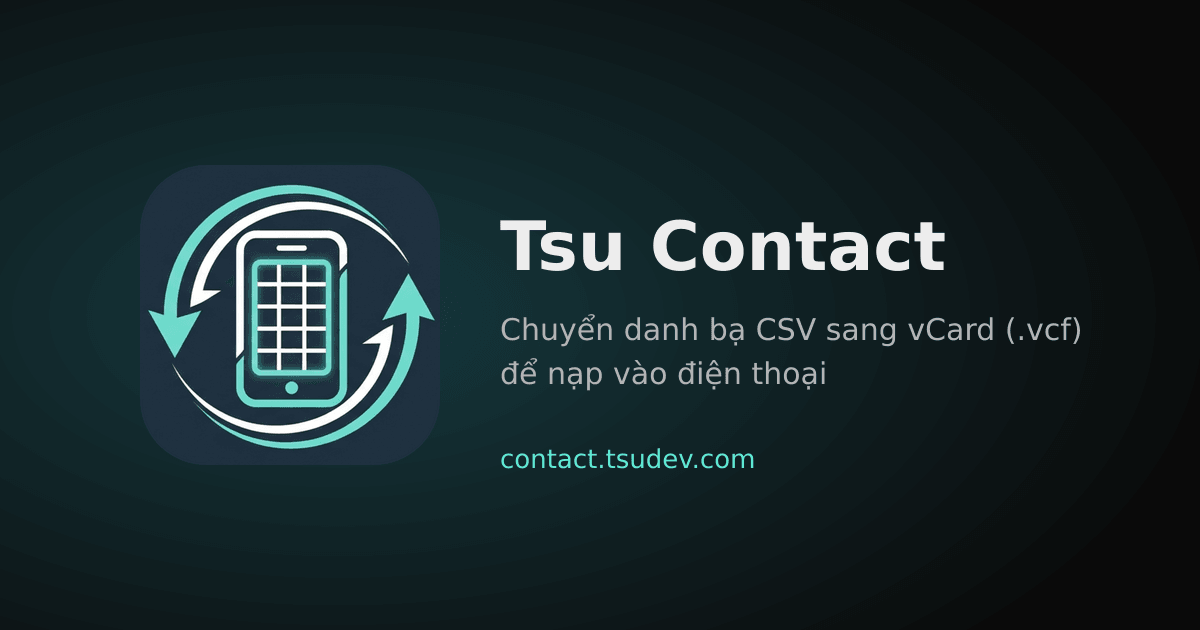
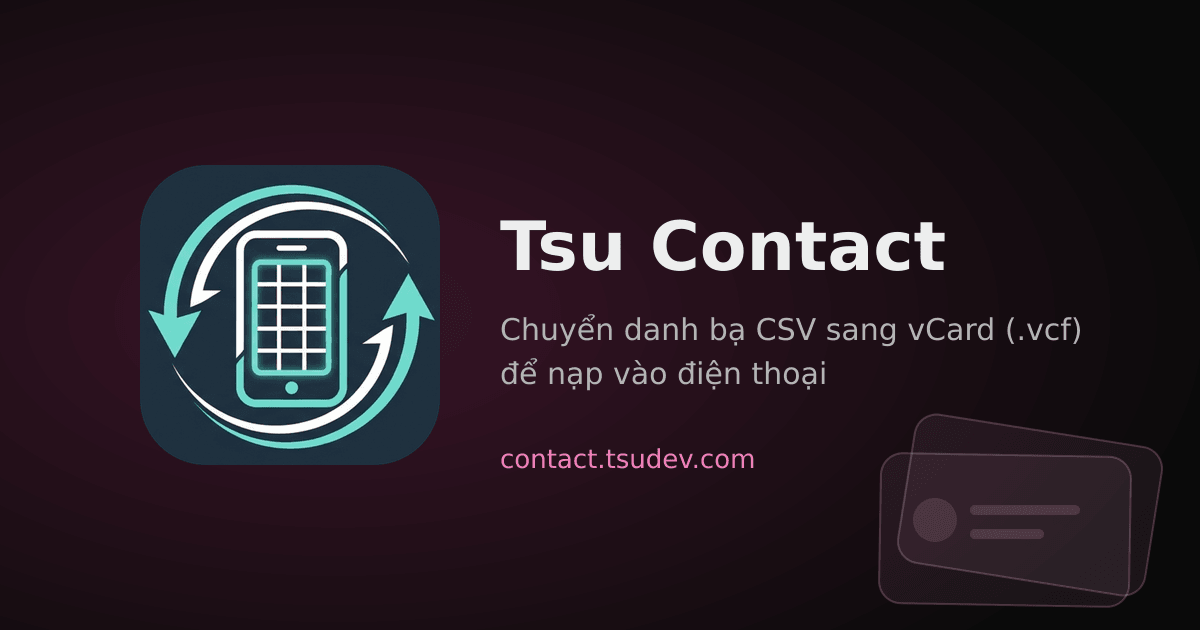
feat(ui): bố cục cong-cu + hoạ tiết the-xep (#40)
- Trang chủ: vùng thao tác chính ngay màn đầu, căn giữa (luồng CSV → vCard, nút tải .exe kèm dung lượng,
  lệnh cài Scoop có nút Chép); ảnh ứng dụng, các bước, tính năng xếp dưới.
- Hoạ tiết the-xep tĩnh ở hero (SVG nội tuyến, --accent/--glow, ẩn ở màn hẹp) và og-image (màu lấy từ
  .standards/tokens/products/contact.json).
- App: màn đầu là trang Bắt đầu với vùng kéo thả lớn căn giữa (nút Chọn tệp là nút chính); nạp tệp xong mới
  sang bố cục 3 bước. Chuỗi vi/en, test chuyển màn.
- Ảnh chụp trước/sau Sáng + Tối ở docs/anh-chup/20261121-std50/.

Changed region(s): [[0.0, 0.2111, 0.6475, 0.7841], [0.7092, 0.6333, 0.9558, 0.9651]]

diff --git a/website/src/styles/site.css b/website/src/styles/site.css
@@ -83,6 +83,35 @@ pre {
 
 /* Trang chủ: hero canh giữa */
 .mo-dau { padding: 5rem 0 3rem; text-align: center; }
+/* Bố cục chữ ký `cong-cu` (DESIGN_SYSTEM 1.2.2): vùng thao tác chính ngay màn đầu, căn giữa */
+.mo-dau--cong-cu { position: relative; overflow: hidden; isolation: isolate; padding-bottom: 2rem; }
+.mo-dau--cong-cu .mo-dau__luoi { gap: 1.75rem; }
+.mo-dau--cong-cu .mo-dau__phu { margin-bottom: 0; }
+.thao-tac {
+  width: 100%; max-width: 40rem; display: grid; gap: 1.1rem; justify-items: center;
+  background: var(--bg-surface); border: 1px solid var(--border-strong); border-radius: var(--radius-lg);
+  padding: 1.75rem clamp(1rem, 4vw, 2.25rem); box-shadow: 0 0 0 6px var(--glow);
+}
+.thao-tac__luong { display: flex; flex-wrap: wrap; justify-content: center; gap: 0.4rem; list-style: none; padding: 0; margin: 0; }
+.thao-tac__luong li {
+  display: inline-flex; align-items: center; gap: 0.4rem; padding: 0.3rem 0.8rem; border-radius: var(--radius-control);
+  background: var(--bg-subtle); border: 1px solid var(--border); color: var(--text-secondary); font-size: 0.86rem; font-weight: 500;
+}
+.thao-tac__luong li + li::before { content: '→'; color: var(--text-link); margin-left: -0.15rem; }
+.thao-tac__luong li:last-child { color: var(--text-link); border-color: color-mix(in srgb, var(--primary) 45%, transparent); }
+.nut--lon { min-height: 3.25rem; padding: 0.8rem 2rem; font-size: 1.06rem; font-weight: 600; }
+.nut__phu { font-weight: 500; opacity: 0.85; font-size: 0.9rem; }
+.thao-tac__lenh { width: 100%; display: grid; gap: 0.4rem; text-align: left; }
+.thao-tac__lenh p { margin: 0; color: var(--text-muted); font-size: 0.86rem; text-align: center; }
+.thao-tac__ghi-chu { margin: 0; color: var(--text-muted); font-size: 0.88rem; }
+.muc--anh { padding-top: 1rem; }
+.muc--anh .minh-hoa { margin: 0 auto; }
+/* Hoạ tiết `the-xep`: thẻ xếp chồng lệch, tĩnh, nét --accent mờ + nền --glow; tổng độ phủ <= 15% */
+.hoa-tiet { position: absolute; inset: 0; width: 100%; height: 100%; z-index: -1; pointer-events: none; }
+.hoa-tiet rect { fill: var(--glow); stroke: var(--accent); stroke-opacity: 0.18; stroke-width: 1.25; }
+.hoa-tiet circle { fill: var(--accent); fill-opacity: 0.1; }
+.hoa-tiet path { stroke: var(--accent); stroke-opacity: 0.14; stroke-width: 8; stroke-linecap: round; fill: none; }
+@media (max-width: 860px) { .hoa-tiet { display: none; } }   /* màn hẹp: thẻ thao tác chiếm hết bề ngang, hoạ tiết sẽ đè chữ */
 .mo-dau__luoi { display: grid; gap: 3rem; justify-items: center; }
 .mo-dau h1 { font-size: clamp(2.1rem, 5vw, 3.4rem); line-height: 1.12; margin: 0 auto 1.1rem; letter-spacing: -0.025em; max-width: 46rem; }
 .chu-tim {

diff --git a/src/ui/main_window.py b/src/ui/main_window.py
@@ -23,6 +23,7 @@ from PySide6.QtWidgets import (
     QProgressBar,
     QScrollArea,
     QSizePolicy,
+    QStackedWidget,
     QToolButton,
     QVBoxLayout,
     QWidget,
@@ -46,6 +47,7 @@ from src.utils.resource_path import resourcePath
 
 REVALIDATE_DELAY_MS = 250
 LEFT_PANEL_WIDTH = 440
+START_WIDTH = 640   # bề rộng cột thao tác của màn đầu (bố cục cong-cu)
 
 
 class MainWindow(QMainWindow):
@@ -73,12 +75,18 @@ class MainWindow(QMainWindow):
         root.setSpacing(0)
         root.addWidget(self._buildHeader())
 
-        body = QHBoxLayout()
+        # Bố cục chữ ký `cong-cu` (tsudev-standards v5.0.0 DESIGN_SYSTEM 1.2.2): chưa có tệp thì màn đầu CHỈ là vùng
+        # thao tác chính (kéo thả / chọn tệp) căn giữa; nạp tệp xong mới sang bố cục làm việc 3 bước.
+        work = QWidget()
+        body = QHBoxLayout(work)
         body.setContentsMargins(t.space(5), t.space(5), t.space(5), t.space(5))
         body.setSpacing(t.space(5))
         body.addWidget(self._buildLeftPanel())
         body.addWidget(self._buildRightPanel(), 1)
-        root.addLayout(body, 1)
+        self.stack = QStackedWidget()
+        self.stack.addWidget(self._buildStartPage())
+        self.stack.addWidget(work)
+        root.addWidget(self.stack, 1)
         root.addWidget(self._buildStatusBar())
 
         self.toast = Toast(page, t)
@@ -99,7 +107,7 @@ class MainWindow(QMainWindow):
         self.retranslate()
         self.restyle()
         self._updateActions()
-        QTimer.singleShot(0, self.dropZone.browseButton.setFocus)
+        QTimer.singleShot(0, self.startZone.browseButton.setFocus)
 
     # ================================================================ dựng giao diện
     def _buildHeader(self) -> QWidget:
@@ -169,6 +177,62 @@ class MainWindow(QMainWindow):
         b.setCursor(Qt.CursorShape.PointingHandCursor)
         b.setIconSize(QSize(16, 16))
         return b
+
+    def _buildStartPage(self) -> QWidget:
+        t = self.tokens
+        page = QWidget()
+        page.setObjectName('startPage')
+        outer = QVBoxLayout(page)
+        outer.setContentsMargins(t.space(6), t.space(6), t.space(6), t.space(6))
+        outer.addStretch(1)
+        column = QVBoxLayout()
+        column.setSpacing(t.space(4))
+        self.startTitle = label('', 'startTitle', wrap=True)
+        self.startTitle.setAlignment(Qt.AlignmentFlag.AlignCenter)
+        self.startLead = label('', 'secondary', wrap=True)
+        self.startLead.setAlignment(Qt.AlignmentFlag.AlignCenter)
+        flow = QHBoxLayout()
+        flow.setSpacing(t.space(2))
+        flow.addStretch(1)
+        self.flowLabels = []
+        for i in range(4):
+            if i:
+                arrow = label('→', 'flowArrow')
+                flow.addWidget(arrow)
+            chip = label('', 'flowChip')
+            chip.setProperty('last', i == 3)
+            self.flowLabels.append(chip)
+            flow.addWidget(chip)
+        flow.addStretch(1)
+        self.startZone = DropZone(t, large=True)
+        self.startZone.fileDropped.connect(self.loadCsv)
+        self.startZone.browseRequested.connect(self.browseCsv)
+        privacyRow = QHBoxLayout()
+        privacyRow.setSpacing(t.space(2))
+        privacyRow.addStretch(1)
+        self.startPrivacyIcon = QLabel()
+        self.startPrivacyLabel = label('', 'muted')
+        privacyRow.addWidget(self.startPrivacyIcon)
+        privacyRow.addWidget(self.startPrivacyLabel)
+        privacyRow.addStretch(1)
+        column.addWidget(self.startTitle)
+        column.addWidget(self.startLead)
+        column.addSpacing(t.space(2))
+        column.addLayout(flow)
+        column.addSpacing(t.space(2))
+        column.addWidget(self.startZone)
+        column.addLayout(privacyRow)
+        row = QHBoxLayout()
+        row.addStretch(1)
+        holder = QWidget()
+        holder.setMaximumWidth(START_WIDTH)
+        holder.setMinimumWidth(START_WIDTH)
+        holder.setLayout(column)
+        row.addWidget(holder)
+        row.addStretch(1)
+        outer.addLayout(row)
+        outer.addStretch(2)
+        return page
 
     def _buildLeftPanel(self) -> QWidget:
         t = self.tokens
@@ -287,6 +351,12 @@ class MainWindow(QMainWindow):
         self.languageButton.setAccessibleName(tr('header.language'))
         self.languageActions['system'].setText(tr('language.system'))
         self.aboutButton.setText(tr('header.about'))
+        self.startTitle.setText(tr('start.title'))
+        self.startLead.setText(tr('start.lead'))
+        for i, chip in enumerate(self.flowLabels):
+            chip.setText(tr(f'start.flow{i + 1}'))
+        self.startZone.retranslate()
+        self.startPrivacyLabel.setText(tr('step1.privacy'))
         self.fileCard.setTitle(tr('step1.title'))
         self.dropZone.retranslate()
         self.changeFileButton.setText(tr('step1.change'))
@@ -316,6 +386,8 @@ class MainWindow(QMainWindow):
         self.exportButton.setIcon(icons.icon('download', t.color('on-primary')))
         self.reportButton.setIcon(icons.icon('report', t.color('text-primary')))
         self.dropZone.restyle(t)
+        self.startZone.restyle(t)
+        self.startPrivacyIcon.setPixmap(icons.pixmap('shield', t.color('success'), 16))
         self.preview.restyle(t)
         self.toast.restyle(t)
 
@@ -430,6 +502,7 @@ class MainWindow(QMainWindow):
 
     def _updateFileInfo(self) -> None:
         data = self.data
+        self.stack.setCurrentIndex(0 if data is None else 1)
         self.dropZone.setVisible(data is None)
         self.fileInfo.setVisible(data is not None)
         if data:
@@ -478,6 +551,7 @@ class MainWindow(QMainWindow):
         self.reportButton.setEnabled(not busy and bool(s and (s.warning or s.error)))
         self.changeFileButton.setEnabled(not busy)
         self.dropZone.setEnabled(not busy)
+        self.startZone.setEnabled(not busy)
 
     # ================================================================ xuất
     def _defaultPath(self, suffix: str, ext: str) -> str:

diff --git a/src/ui/widgets.py b/src/ui/widgets.py
@@ -60,22 +60,25 @@ class DropZone(QFrame):
     fileDropped = Signal(str)
     browseRequested = Signal()
 
-    def __init__(self, t: Tokens, parent=None):
+    def __init__(self, t: Tokens, parent=None, large: bool = False):
         super().__init__(parent)
         self.setObjectName('dropZone')
+        self.large = large   # vùng thao tác chính của màn đầu (bố cục cong-cu): to hơn, nút chọn tệp là nút chính
+        self.setProperty('large', large)
         self.setAcceptDrops(True)
         self.setProperty('dragActive', False)
         layout = QVBoxLayout(self)
-        layout.setContentsMargins(t.space(4), t.space(4), t.space(4), t.space(4))
-        layout.setSpacing(t.space(2))
+        pad = t.space(10 if large else 4)
+        layout.setContentsMargins(pad, pad, pad, pad)
+        layout.setSpacing(t.space(3 if large else 2))
         layout.setAlignment(Qt.AlignmentFlag.AlignCenter)
         self.iconLabel = QLabel()
         self.iconLabel.setAlignment(Qt.AlignmentFlag.AlignCenter)
-        self.titleLabel = label('', 'fieldLabel')
+        self.titleLabel = label('', 'dropTitle' if large else 'fieldLabel')
         self.titleLabel.setAlignment(Qt.AlignmentFlag.AlignCenter)
         self.orLabel = label('', 'muted')
         self.orLabel.setAlignment(Qt.AlignmentFlag.AlignCenter)
-        self.browseButton = button('')
+        self.browseButton = button('', 'primary' if large else None)
         self.browseButton.clicked.connect(self.browseRequested)
         for widget in (self.iconLabel, self.titleLabel, self.orLabel):
             layout.addWidget(widget)
@@ -89,8 +92,8 @@ class DropZone(QFrame):
         self.browseButton.setAccessibleName(tr('step1.dialogTitle'))
 
     def restyle(self, t: Tokens) -> None:
-        self.iconLabel.setPixmap(icons.pixmap('upload', t.color('primary'), 32, 1.5))
-        self.browseButton.setIcon(icons.icon('file', t.color('text-primary')))
+        self.iconLabel.setPixmap(icons.pixmap('upload', t.color('primary'), 48 if self.large else 32, 1.5))
+        self.browseButton.setIcon(icons.icon('file', t.color('on-primary' if self.large else 'text-primary')))
 
     @staticmethod
     def _localFile(event) -> str | None:

diff --git a/src/ui/theme.py b/src/ui/theme.py
@@ -118,6 +118,13 @@ QLabel[role="emptyTitle"] {{ color: {c('text-secondary')}; font-size: {fs('body-
 #card {{ background: {c('bg-surface')}; border: 1px solid {c('border')}; border-radius: {r('lg')}px; }}
 
 #dropZone {{ background: {c('bg-subtle')}; border: 1px solid {c('border-control')}; border-radius: {r('lg')}px; }}
+#dropZone[large="true"] {{ background: {c('bg-surface')}; border: 1px solid {c('border-strong')}; border-radius: {r('lg')}px; }}
+QLabel[role="startTitle"] {{ {heading} font-size: {fs('h1')}px; font-weight: {w('bold')}; }}
+QLabel[role="dropTitle"] {{ font-size: {fs('h4')}px; font-weight: {w('semibold')}; }}
+QLabel[role="flowChip"] {{ background: {c('bg-subtle')}; border: 1px solid {c('border')}; border-radius: {t.pill(24)}px;
+                           color: {c('text-secondary')}; padding: {sp(1)}px {sp(3)}px; font-weight: {w('medium')}; }}
+QLabel[role="flowChip"][last="true"] {{ color: {c('text-link')}; border-color: {c('primary')}; }}
+QLabel[role="flowArrow"] {{ color: {c('text-link')}; }}
 #dropZone[dragActive="true"] {{ border: 2px solid {c('primary')}; background: {c('bg-hover')}; }}
 
 QPushButton, QToolButton {{

diff --git a/tests/test_ui.py b/tests/test_ui.py
@@ -76,6 +76,16 @@ def test_toi_da_bay_o_phan_trang(current, last, expected):
     assert pageWindow(current, last) == expected
 
 
+def test_man_dau_cong_cu_roi_sang_bo_cuc_lam_viec(app, window, samples):
+    # Bố cục cong-cu (tsudev-standards v5.0.0): chưa có tệp thì chỉ có vùng kéo thả căn giữa; nạp xong sang 3 bước
+    assert window.stack.currentIndex() == 0
+    assert window.startZone.isVisible() and window.startZone.browseButton.property('variant') == 'primary'
+    assert not window.previewCard.isVisible()
+    loadSample(app, window, samples)
+    assert window.stack.currentIndex() == 1
+    assert window.previewCard.isVisible()
+
+
 def test_nap_csv_tu_ghep_cot_va_kiem_tra(app, window, samples):
     loadSample(app, window, samples)
     mapping = window.mappingPanel.mapping()

diff --git a/src/i18n/vi.py b/src/i18n/vi.py
@@ -19,6 +19,12 @@ STRINGS = {
     'theme.system': 'Hệ thống',
 
     # --- Bước 1 ---
+    'start.title': 'Chuyển danh bạ CSV sang vCard',
+    'start.lead': 'Kéo tệp CSV xuất từ Excel, Google Contacts hay Outlook vào đây. Mọi thứ chạy trên máy này.',
+    'start.flow1': 'Tệp CSV',
+    'start.flow2': 'Ghép cột',
+    'start.flow3': 'Kiểm tra từng dòng',
+    'start.flow4': 'vCard (.vcf)',
     'step1.title': '1. Chọn tệp CSV',
     'step1.drop': 'Kéo thả tệp CSV vào đây',
     'step1.or': 'hoặc',

diff --git a/src/i18n/en.py b/src/i18n/en.py
@@ -16,6 +16,12 @@ STRINGS = {
     'language.system': 'System default',
     'theme.system': 'System',
 
+    'start.title': 'Convert CSV contacts to vCard',
+    'start.lead': 'Drop a CSV file exported from Excel, Google Contacts or Outlook here. Everything runs on this computer.',
+    'start.flow1': 'CSV file',
+    'start.flow2': 'Map columns',
+    'start.flow3': 'Check every row',
+    'start.flow4': 'vCard (.vcf)',
     'step1.title': '1. Choose a CSV file',
     'step1.drop': 'Drop a CSV file here',
     'step1.or': 'or',

diff --git a/CHANGELOG.md b/CHANGELOG.md
@@ -7,6 +7,8 @@ Quy ước đặt tên bản phát hành: `.standards/docs/VERSIONING.md` mục 
 
 - **Bản sắc riêng của Tsu Contact** (tsudev-standards v5.0.0, phiếu `logs/handover/20261121-STD50`): màu nhấn hồng san hô
   (`#F182BA` Tối / `#AD447C` Sáng) thay xanh dùng chung, bộ bo góc `tron` (nút viên thuốc), font tiêu đề Nunito tự host.
+  Màn đầu app và trang chủ website theo bố cục chữ ký `cong-cu`: chưa có tệp thì app chỉ hiện một vùng kéo thả lớn căn
+  giữa; trang chủ đặt nút tải `.exe` + lệnh cài Scoop ngay màn đầu, hoạ tiết thẻ xếp `the-xep` ở hero và `og-image`.
   Website nạp thẳng `.standards/tokens/tokens.css` + `products.css` với `data-product="contact"`; app gộp
   `.standards/tokens/products/contact.json` lúc chạy. Bỏ bảng màu tự khai (`palette.css`, `tokens/extensions.tsucontact.json`).
 
